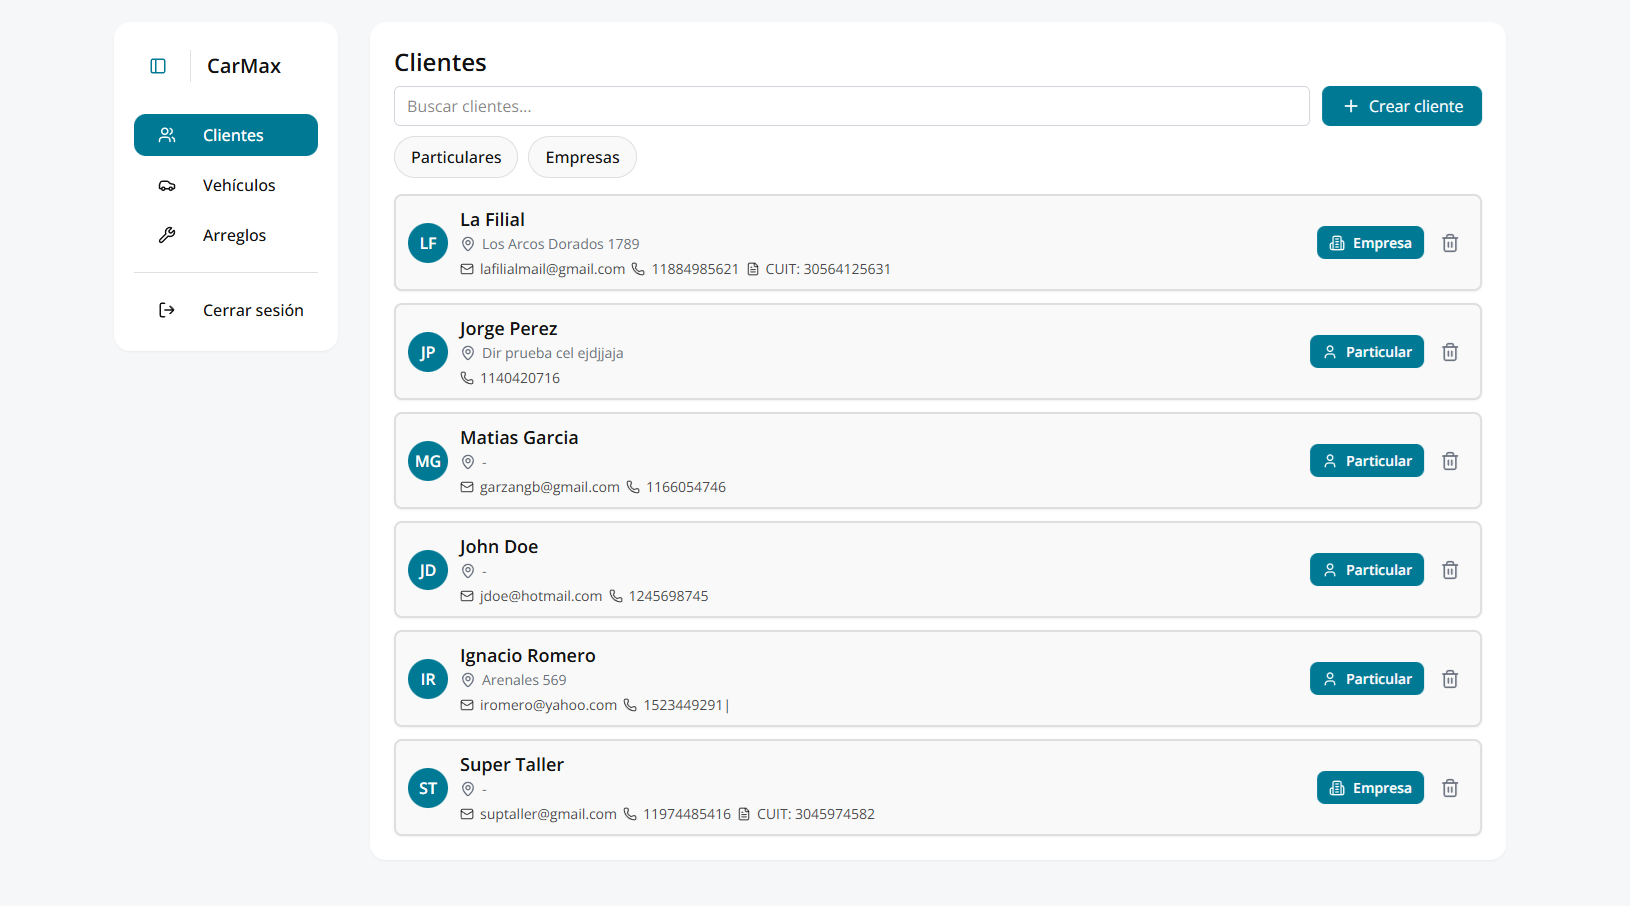
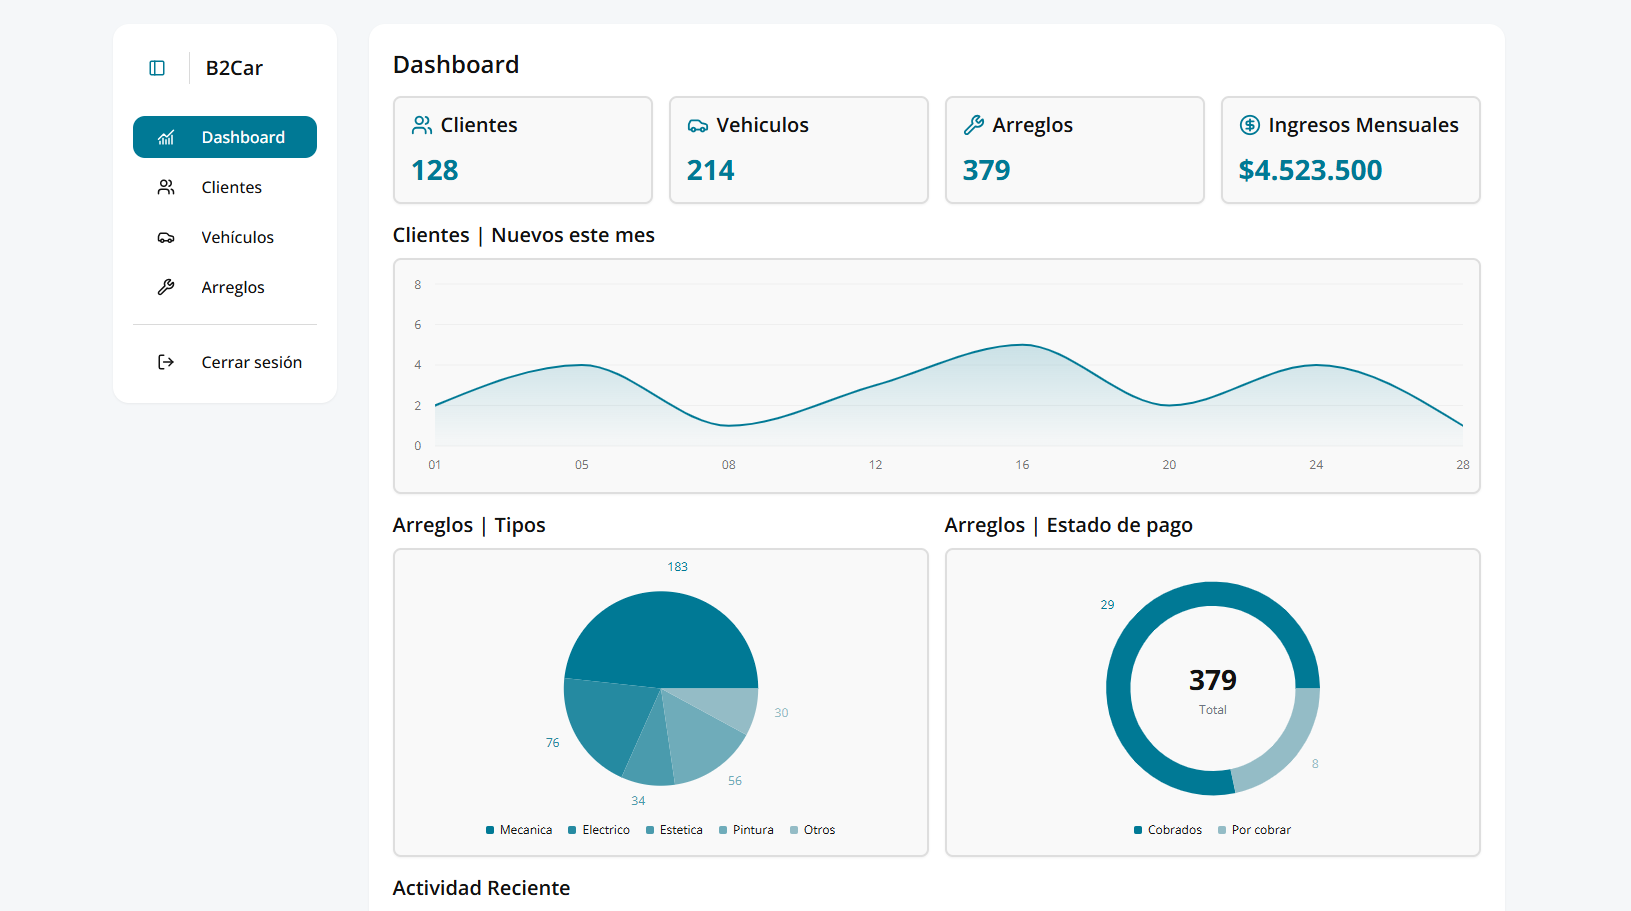
update screens con dashboard

diff --git a/src/sections/Hero.tsx b/src/sections/Hero.tsx
@@ -22,6 +22,10 @@ export const Hero: React.FC = () => {
       src: "/screens/desktop/screenDesktop3.png",
       alt: `Captura del sistema ${APP_NAME} (3)`,
     },
+    {
+      src: "/screens/desktop/screenDesktop4.png",
+      alt: `Captura del sistema ${APP_NAME} (4)`,
+    }
   ];
 
   const mobileScreens = [
